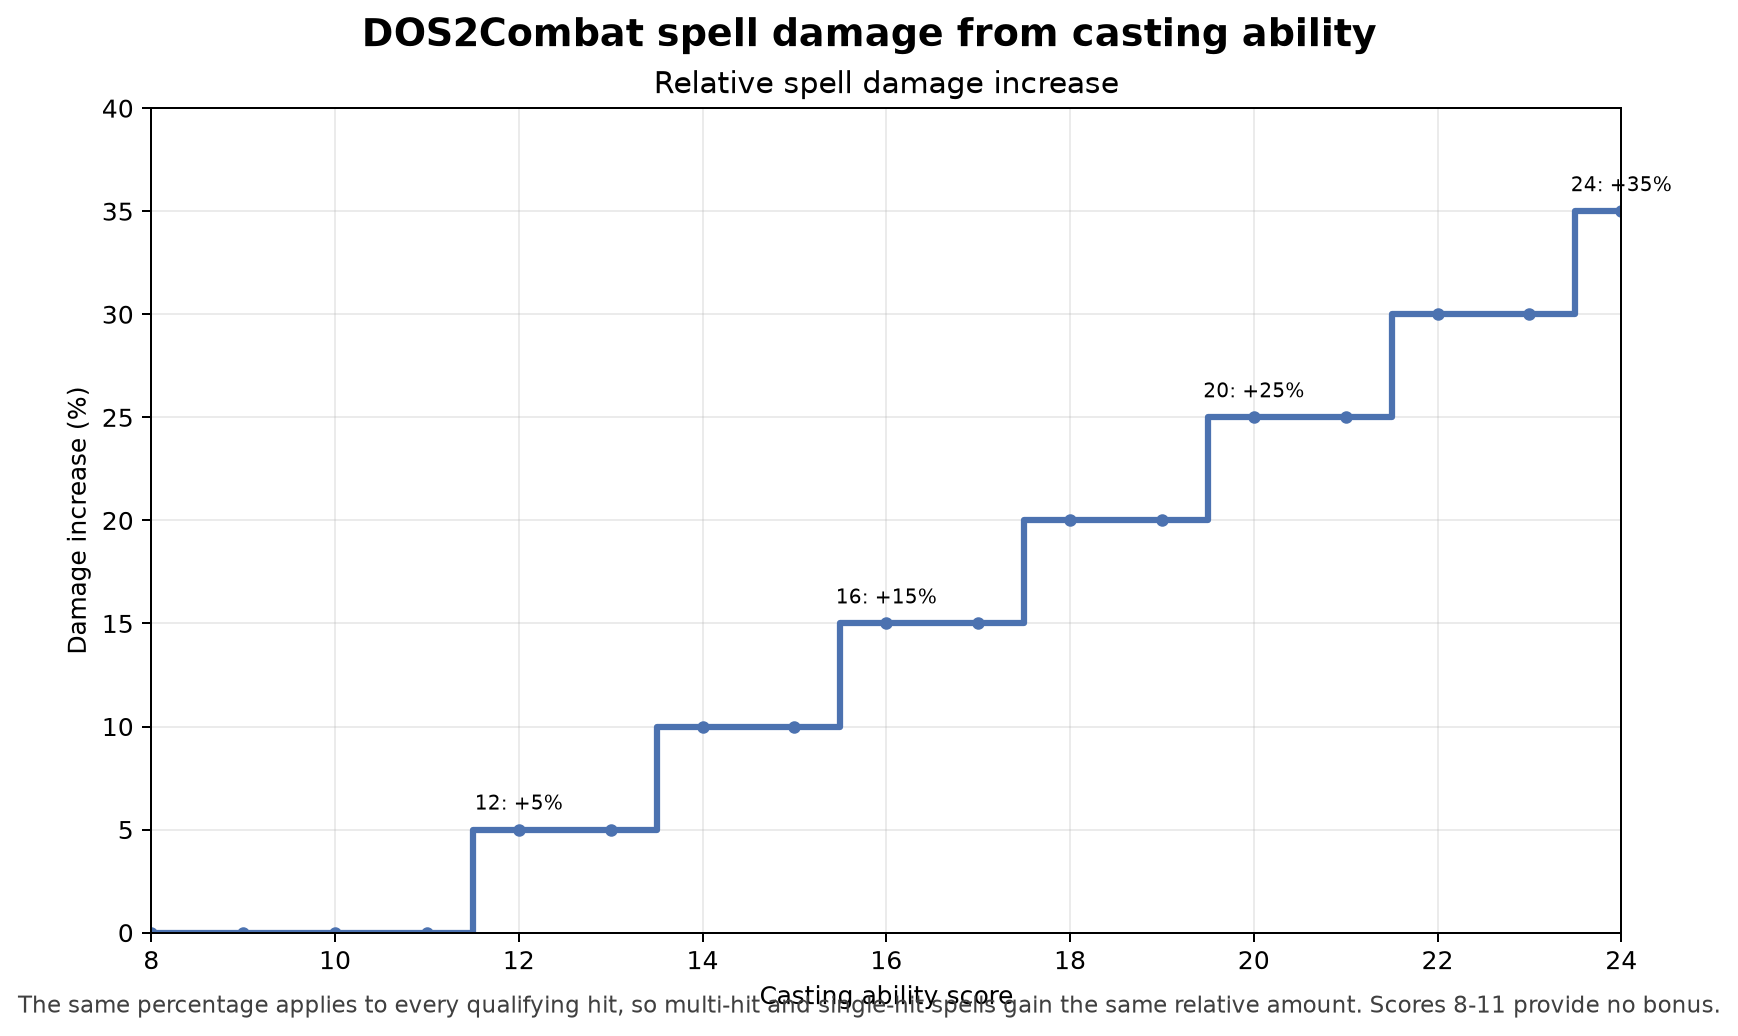
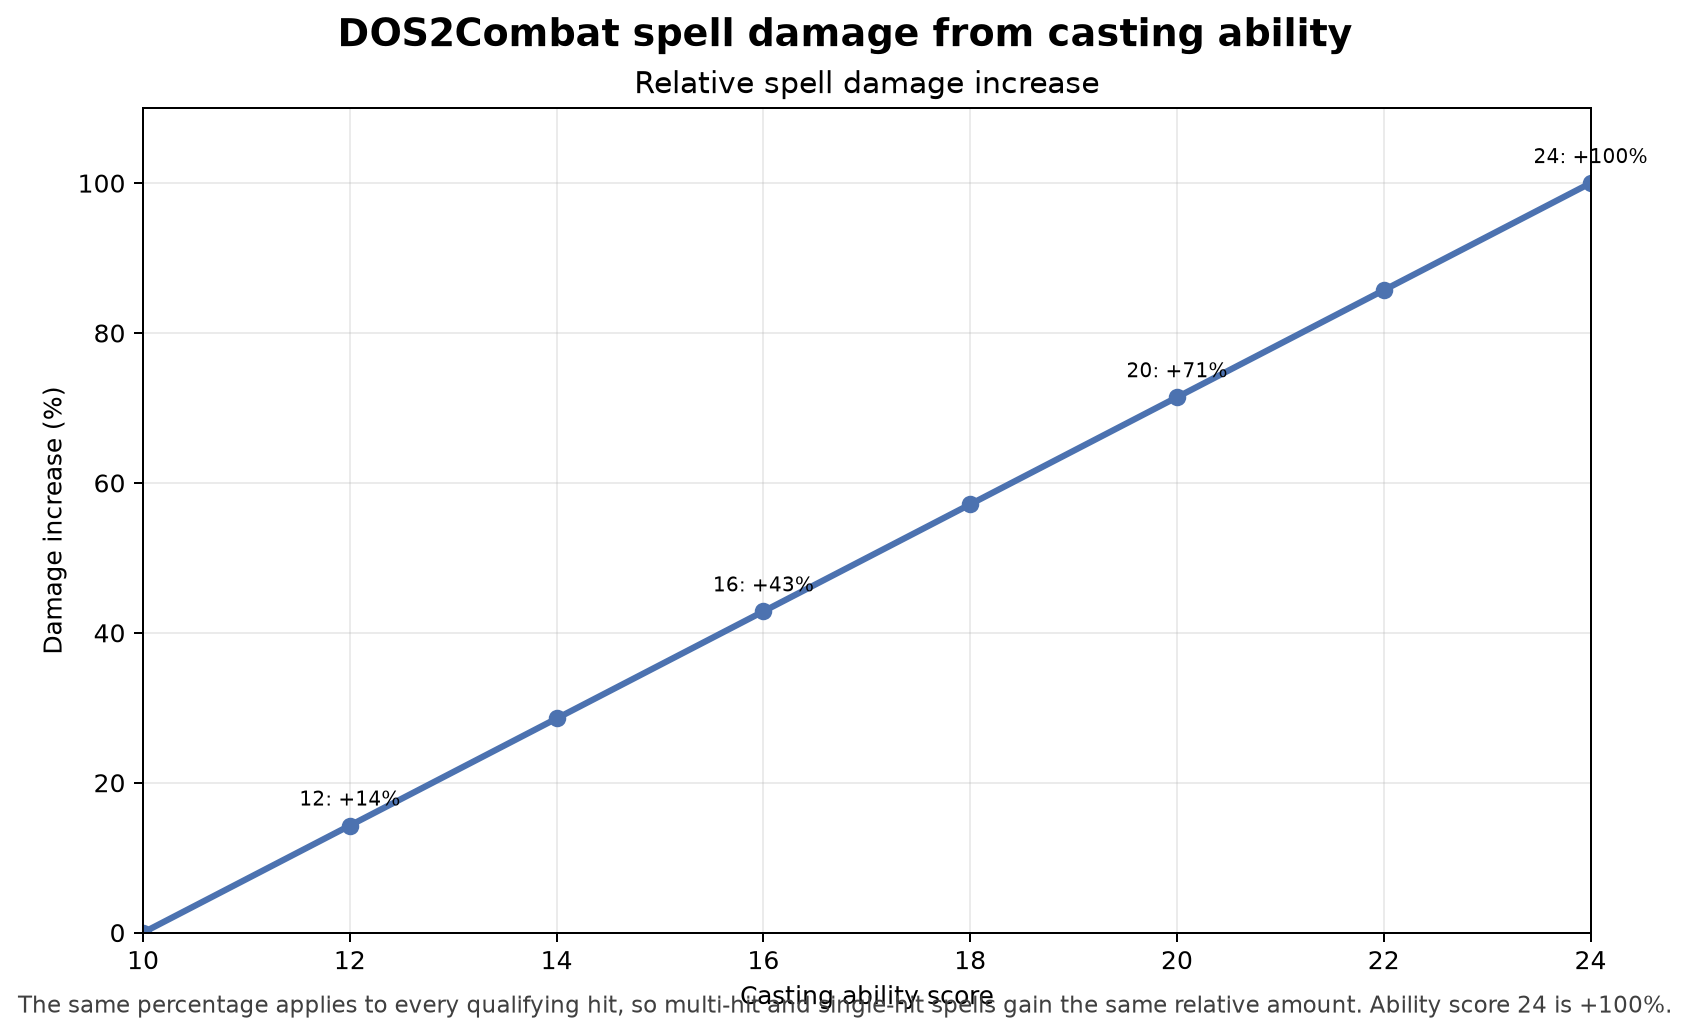
Scale spell damage to plus 100 percent at 24
Use one-seventh of the casting modifier as the relative multiplier, reaching +100 percent at ability score 24. Keep weapon and item damage out of the casting multiplier so Strength/Dexterity weapon scaling does not double-dip, and update the linear plot and tests.

diff --git a/tests/test_casting_power.py b/tests/test_casting_power.py
@@ -28,7 +28,7 @@ class CastingPowerTests(unittest.TestCase):
         for relative in ("Server/Config.lua", "Server/Util.lua", "Server/CastingPower.lua"):
             run_lua_file(self.lua, root / relative)
 
-    def _damage(self, spell, modifiers):
+    def _damage(self, spell, modifiers, hit_with=0):
         self.lua.execute(
             """
             local caster = {
@@ -40,6 +40,7 @@ class CastingPowerTests(unittest.TestCase):
             local hit = {
                 SpellId = "%s",
                 CauseType = 0,
+                HitWith = %d,
                 Inflicter = caster,
                 DamageList = { { Amount = 10 }, { Amount = 5 } },
                 Damage = { FinalDamage = 15, TotalDamage = 15 },
@@ -47,18 +48,24 @@ class CastingPowerTests(unittest.TestCase):
             DOS2C.CastingPower.OnDamage({ Hit = hit })
             _G.hit = hit
             """
-            % (modifiers, spell)
+            % (modifiers, spell, hit_with)
         )
         return self.lua
 
     def test_relative_multiplier_scales_each_hit(self):
         lua = self._damage("Projectile_FireBolt", 3)
-        self.assertEqual(lua.eval("hit.DamageList[1].Amount"), 12)
-        self.assertEqual(lua.eval("hit.DamageList[2].Amount"), 6)
-        self.assertEqual(lua.eval("hit.Damage.FinalDamage"), 17)
+        self.assertEqual(lua.eval("hit.DamageList[1].Amount"), 14)
+        self.assertEqual(lua.eval("hit.DamageList[2].Amount"), 7)
+        self.assertEqual(lua.eval("hit.Damage.FinalDamage"), 21)
 
     def test_weapon_spells_are_not_scaled(self):
         lua = self._damage("Target_MainHandAttack", 5)
+        self.assertEqual(lua.eval("hit.DamageList[1].Amount"), 10)
+        self.assertEqual(lua.eval("hit.DamageList[2].Amount"), 5)
+        self.assertEqual(lua.eval("hit.Damage.FinalDamage"), 15)
+
+    def test_weapon_damage_component_is_not_scaled(self):
+        lua = self._damage("Target_BoomingBlade", 5, hit_with=1)
         self.assertEqual(lua.eval("hit.DamageList[1].Amount"), 10)
         self.assertEqual(lua.eval("hit.DamageList[2].Amount"), 5)
         self.assertEqual(lua.eval("hit.Damage.FinalDamage"), 15)

diff --git a/README.md b/README.md
@@ -156,18 +156,22 @@ The caster's spellcasting ability applies a **relative damage multiplier** to
 qualifying spell damage events:
 
 ```text
-multiplier = 1 + 0.05 × max(0, SpellCastingAbilityModifier)
+multiplier = 1 + max(0, SpellCastingAbilityModifier) / 7
 ```
 
 ```text
-Ability score:   10  12  14  16  18  20  24
-Damage increase:  0%  +5% +10% +15% +20% +25% +35%
+Ability score:   10  12  14  16  18  20  22  24
+Damage increase:  0% +14% +29% +43% +57% +71% +86% +100%
 ```
 
 Scores of 8–11 add nothing. The same percentage is applied to each qualifying
 hit, so multi-hit and single-hit spells gain the same relative amount regardless
 of their base damage. The multiplier is applied server-side and the native
 tooltip damage expressions are scaled to match.
+
+Weapon and item damage are not multiplied by the casting ability. Those hits
+already use Strength/Dexterity (or their own weapon-specific scaling), so the
+casting multiplier is skipped when the hit is a weapon or item hit.
 
 ![Spell damage from casting ability](docs/spell-ability-damage.png)
 
